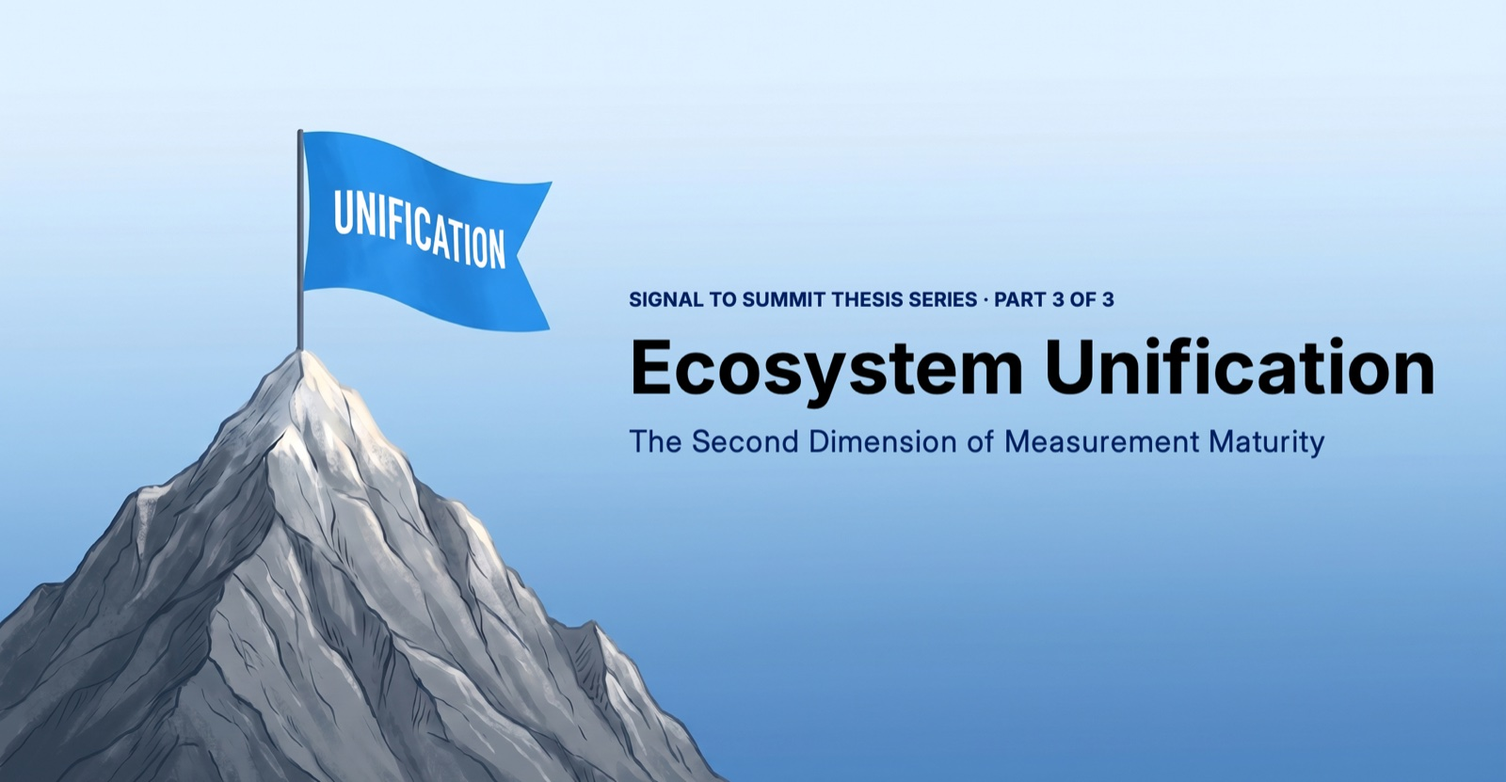
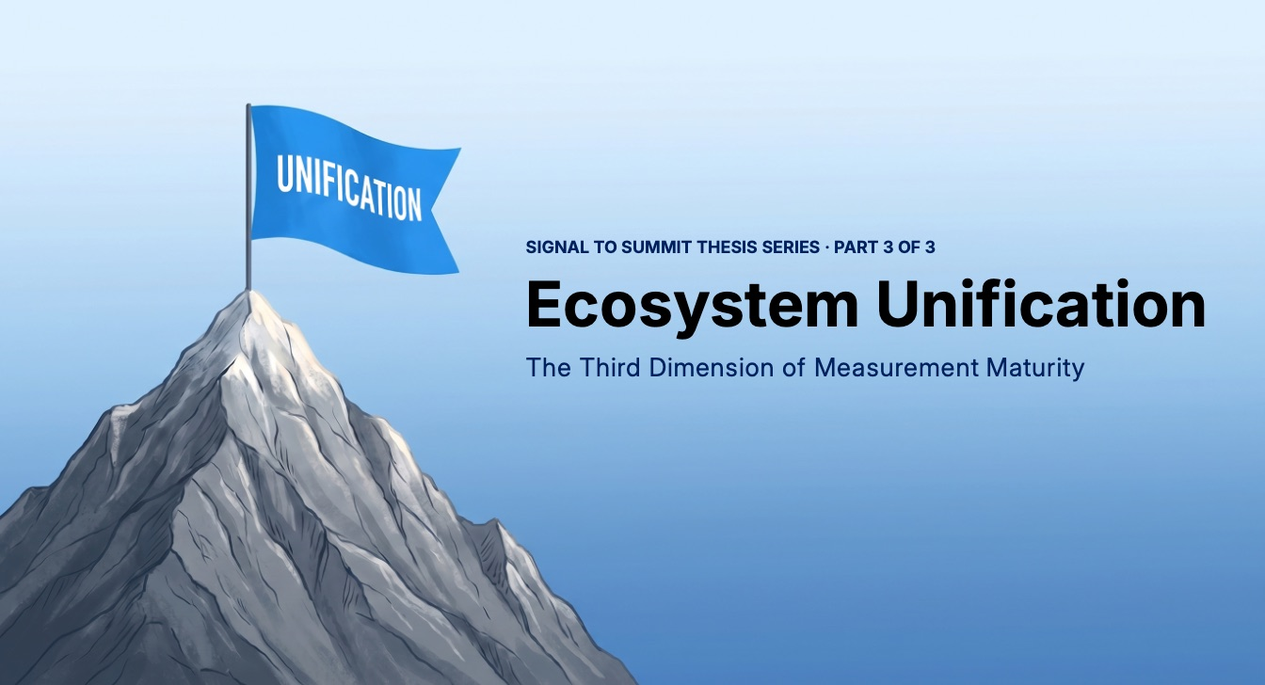
Publish MMF Dimension 3: Ecosystem Unification thesis paper (3 of 3)
Third and final Measurement Maturity thesis paper, built against the established
dimension-page template (hero cover, exec summary, orientation-block TOC, ALL-CAPS
sections, five level illustrations, single ice-blue subscribe box).

- New content: ecosystem-unification-the-third-dimension-of-measurement-maturity.md
- 8 visual assets: cover, stat banner, 5 level illustrations, proof-chain graphic
- Sections: Cost of Fragmentation, Five Levels of Ecosystem Unification,
  The Portfolio Question, The Benefit of Getting Unification Right, The Proof Chain
- Cross-links wired: overview cover now links to live page; Operational Delivery
  What Comes Next now links to the live dimension 3 (removed Coming soon)

Verified: production build clean, dev-server render confirmed via browser, all 8
images load, all 5 TOC anchors resolve, zero console errors.

Changed region(s): [[0.0, 0.1511, 0.5312, 1.0], [0.4062, 0.3324, 0.9688, 0.6044]]

diff --git a/src/content/signals/ecosystem-unification-the-third-dimension-of-measurement-maturity.md b/src/content/signals/ecosystem-unification-the-third-dimension-of-measurement-maturity.md
@@ -1,0 +1,172 @@
+---
+title: "Ecosystem Unification: The Third Dimension of Measurement Maturity"
+description: "Whether your proof and delivery hold together across your full channel portfolio, or only work for the ad products you built first. The third and final dimension in the Signal to Summit Measurement Maturity Framework."
+teaser: "Defined by whether your measurement holds together across the whole portfolio, or only works one channel at a time."
+executiveSummary: "A brand does not buy one corner of your network. They run sponsored products, offsite display, CTV, in-store, and social, and they expect you to tell them what all of it did together. That is where most retail media measurement breaks. This is the third and final dimension in the Signal to Summit Measurement Maturity Framework: whether your proof and delivery hold together across your full channel portfolio, or only work one ad product at a time. Five levels from Isolated Systems to The Customer Journey as Competitive Advantage, scored independently per ad product. The dimensions do not average. The chain breaks at the weakest link."
+pillar: thesis
+publishDate: 2026-06-01T12:00:00
+author: Jaiah Kamara
+videoTitle: "Ecosystem Unification, The Third Dimension of Measurement Maturity, Signal to Summit"
+thumbnail: /images/thesis/mmf/ecosystem-unification-cover.jpg
+draft: false
+---
+
+# Ecosystem Unification: The Third Dimension of Measurement Maturity
+
+*Jaiah Kamara, Founder, Signal to Summit | 7 Years Building Measurement at Best Buy Ads | Industry Analyst and Advisor to Retail Media Platform Providers*
+
+*Part 3 of 3 in the Signal to Summit Measurement Maturity series.*
+
+---
+
+The Signal to Summit Measurement Maturity series introduced three dimensions that determine whether proof reaches the person making the spending decision. Proof capacity was the first: what you can actually demonstrate, and to whom. Operational delivery was the second: whether that proof arrives in the right format, at the right moment, in the hands that decide. This paper covers the third dimension, ecosystem unification.
+
+A brand does not buy one corner of your network. They run sponsored products, offsite display, CTV, in-store, maybe on a social media platform, and they expect you to tell them what all of it did together. That is where most retail media measurement breaks. You can have real proof and fast delivery on the channels you have figured out, and still have no answer when a brand asks how their spend performed across the full journey. Ecosystem unification is the dimension that decides whether your measurement holds together across the whole portfolio, or only works one channel at a time.
+
+If you have not read the series introduction, [Measurement Maturity: A Framework for Retail and Commerce Media](/summit-signals/measurement-maturity-framework-overview), that is the entry point to the full framework.
+
+If you missed the earlier dimensions, start with [Proof Capacity: The First Dimension of Measurement Maturity](/summit-signals/proof-capacity-the-first-dimension-of-measurement-maturity), then [Operational Delivery: The Second Dimension of Measurement Maturity](/summit-signals/operational-delivery-the-second-dimension-of-measurement-maturity).
+
+<div class="orientation-block">
+<ol>
+<li><a href="#the-cost-of-fragmentation"><span class="orient-label">The Cost of Fragmentation</span><span class="orient-context">Three levels of hidden cost: double-counting you cannot see, a measurement ceiling lower than you think, and non-endemic revenue you cannot access</span></a></li>
+<li><a href="#five-levels-of-ecosystem-unification"><span class="orient-label">Five Levels of Ecosystem Unification</span><span class="orient-context">From Isolated Systems to The Customer Journey as Competitive Advantage, scored per ad product</span></a></li>
+<li><a href="#the-portfolio-question"><span class="orient-label">The Portfolio Question</span><span class="orient-context">Which connections are missing, and which missing connections are costing you the most</span></a></li>
+<li><a href="#the-benefit-of-getting-unification-right"><span class="orient-label">The Benefit of Getting Unification Right</span><span class="orient-context">Answer the question every major advertiser is actually asking, and unlock revenue that only exists when brands can connect</span></a></li>
+<li><a href="#the-proof-chain"><span class="orient-label">The Proof Chain</span><span class="orient-context">Three papers, three dimensions, one conclusion: the chain breaks at the weakest link</span></a></li>
+</ol>
+</div>
+
+---
+
+## THE COST OF FRAGMENTATION
+
+Fragmentation is a serious data problem, and anyone who has worked in data knows it is one of the most critical to solve. In retail media it is also the one that quietly caps everything else. You cannot dedupe attribution across overlapping exposures, you cannot connect a customer journey across channels, and you cannot partner with brands who need a unified view, when your data lives in systems that were never built to talk to each other. The cost operates at three levels, each harder to see than the last.
+
+First, you are double-counting and you may not know it. A brand runs sponsored products and onsite display, and both systems report a conversion from the same shopper on the same transaction. Without a connected identity layer telling you that was one journey, you counted it twice. When the brand or agency dedupes on their side, your numbers shrink, and that is worse than reporting lower numbers from the start, because you lost the argument after appearing to win it.
+
+Second, your measurement ceiling is lower than you think. If your loyalty program penetration is 40%, then 60% of transactions are already invisible to deterministic measurement, and that gap widens once you account for ad products running on different identity systems with different match rates. Onsite might match well, but offsite match-back typically runs through a partner at 40 to 60 percent, CTV runs lower than that, and social activations often come back as cohort-level aggregates with no individual match at all. The journey you are trying to prove is structurally invisible for a meaningful share of the shoppers who actually experienced it, and that ceiling does not move until the identity infrastructure underneath it changes.
+
+Third, you are locked out of non-endemic revenue at scale. When a financial services company or an auto brand wants to advertise on your network, they bring budget but no transaction in your system, and your entire measurement architecture is built around matching ad exposure to purchase. No purchase means no proof path. Non-endemic is one of the fastest-growing revenue opportunities in retail media, and a fragmented ecosystem with no alternative measurement path cannot access it at scale.
+
+These costs compound at the portfolio level. Your largest advertisers are the ones buying across the most formats, and they are not asking for individual ad product reports, they are asking what the network did for their business. The more formats a brand buys, the more exposed they are to your fragmentation, which means your biggest revenue relationships carry the most risk.
+
+![Your biggest advertisers aren't asking for individual ad product reports. They're asking what your network did for their business.](/images/thesis/mmf/ecosystem-unification-stat-banner.jpg)
+
+And the urgency is commercial. Holding companies are building normalization infrastructure to evaluate performance across retail media networks consistently, and the networks whose data connects cleanly into those frameworks get considered for the largest allocations. When your data arrives fragmented, deduplicated differently by each ad product, with identity coverage gaps that compress under external scrutiny, you get discounted before the evaluation even begins. Fragmentation is not just an internal measurement problem. It is how you show up in the room where the biggest budget decisions get made.
+
+---
+
+## FIVE LEVELS OF ECOSYSTEM UNIFICATION
+
+![Ecosystem Unification Level 1, Isolated Systems, illustration](/images/thesis/mmf/ecosystem-unification-level-1.jpg)
+
+**Level 1: Isolated Systems.** Each ad product on your network operates as a separate measurement island. Sponsored products, onsite display, and offsite programmatic each report through their own system, and if you have CTV, in-store, social, or paid search, each carries its own reporting interface, identity backbone, and methodology. When a brand asks how their investment performed across your network, the answer is a folder of separate reports, one per ad product, each telling its own story with no connection to the others.
+
+The customer journey that actually happened, the shopper who saw a CTV ad, searched onsite, clicked a sponsored product, and converted, is invisible as a journey. Each system claimed a piece of it and nobody connected the pieces. You have activity data, not a story.
+
+Why: Each ad product was built or integrated independently, often by different teams, using different vendor infrastructure, on different timelines. There was no architectural decision to connect them because the priority at each stage was getting the ad product live and generating revenue, not building measurement infrastructure that would connect it to everything else. The identity systems underlying each product were chosen for that product's needs, not for interoperability: sponsored products run on your loyalty backbone, offsite on a partner's device graph, CTV on a streaming partner's identity system, social on aggregated cohorts. These systems were never designed to speak to each other, and at Level 1, nobody has tried to make them.
+
+![Ecosystem Unification Level 2, Connected Within Formats, Fragmented Across Them, illustration](/images/thesis/mmf/ecosystem-unification-level-2.jpg)
+
+**Level 2: Connected Within Formats, Fragmented Across Them.** You started connecting measurement within some ad product categories. Your onsite formats, sponsored products and onsite display, share a common identity backbone and report through a consistent methodology, so when a brand runs both, you can tell a coherent onsite story. But the moment the conversation expands to offsite, CTV, or in-store, you are back to separate systems with separate logic. The cross-format story breaks at the boundary between onsite and everything else.
+
+You also started building your own data connections to the retail enterprise. Your measurement team has access to POS data for some reporting, and loyalty transaction data feeds into your onsite attribution model. But those connections are partial and manual, built to serve specific reporting needs, not to create a unified data foundation across your full portfolio.
+
+Why: Connecting measurement within a format category is architecturally simpler than connecting across them, because onsite formats share a common first-party data environment where shopper identity, transaction data, and ad exposure data all live close together. Offsite measurement requires matching an external impression back to an in-store or online transaction, which introduces a partner-dependent identity layer with its own match rate and limitations, and CTV and in-store each add another layer on top of that. Each cross-format connection is a different identity problem, and at Level 2, the organization has solved the easiest one but not the harder ones.
+
+![Ecosystem Unification Level 3, A Connected Identity Layer Across Core Formats, illustration](/images/thesis/mmf/ecosystem-unification-level-3.jpg)
+
+**Level 3: A Connected Identity Layer Across Core Formats.** You built or integrated an identity resolution layer that connects your core ad products under a common shopper identity. When a shopper is exposed to a sponsored product and then an onsite display ad and then converts, your system recognizes that as one journey, not three separate attribution events. Cross-format deduplication works for your core portfolio, and the double-counting problem that defined Levels 1 and 2 is largely resolved for the formats you prioritized.
+
+You can answer the cross-format question for those formats. A brand running sponsored, onsite display, and offsite can get a deduplicated view of performance that survives basic agency scrutiny. The portfolio story holds for the formats in the connected layer, but CTV, in-store, social, and non-endemic are still outside it, running on separate identity systems. The connected layer covers the revenue you have today, not the formats you are building toward.
+
+Why: Building a connected identity layer requires choosing an architectural approach and investing in the infrastructure to implement it: first-party loyalty data as the deterministic backbone, an identity resolution provider to extend coverage to non-loyalty shoppers, and clean room infrastructure for the walled garden connections that cannot be solved with a direct integration. These choices were made for the core ad products because that is where the measurement pressure was highest. CTV identity runs through the streaming partner's system and requires a different integration approach, in-store attribution requires connecting physical presence signals to the loyalty backbone, and social platforms operate closed identity environments where clean room collaboration is the only path. Each extension of the connected layer requires a separate architectural decision and a separate investment.
+
+![Ecosystem Unification Level 4, Full Portfolio Connectivity with Enterprise Data Integration, illustration](/images/thesis/mmf/ecosystem-unification-level-4.jpg)
+
+**Level 4: Full Portfolio Connectivity with Enterprise Data Integration.** Your identity layer covers your full ad product portfolio, from sponsored and display to offsite, CTV, paid search, social, and in-store. The customer journey is visible end to end for the shopper segments your identity infrastructure can reach, and cross-format deduplication works across formats, not just within your core. When a brand asks what the network did for their business, you have a connected answer that spans everything they bought.
+
+And the measurement is now connected to the broader retail enterprise. POS data, loyalty transaction data, inventory data, and category management data feed into your measurement infrastructure through real data pipelines, not manual exports. Browse behavior and conversion paths from your e-commerce platform connect ad exposure to the full purchase journey, from exposure through consideration to conversion, not just the last-click event. That enterprise data connection changes the proof you can produce: you are not just measuring ad-to-purchase, you are measuring ad-to-business-outcome across the full retail data ecosystem.
+
+Non-endemic advertisers have a proof path. Brand lift measurement, audience qualification scoring, foot traffic attribution, and third-party conversion tracking give advertisers without a purchase in your system something credible to evaluate, and the methodology is productized and transparent rather than constructed ad hoc for each request.
+
+Cross-brand partnerships have a proof path for the first time. The same clean room infrastructure that connects walled garden platforms also lets two first-party data environments collaborate without either side exposing raw data. A brand can co-fund an activation with a complementary brand, or partner directly with the retailer on a shared audience, and both sides receive measurement on the outcome. At Level 4 this works, but it is still a deliberate, configured engagement. Each partnership requires your team to stand up the clean room connection, align on the measurement question, and produce the result. The capability is real, but the effort per partnership is high.
+
+Why: Full portfolio connectivity at Level 4 required solving the identity problem for each format independently and then connecting those solutions into a coherent orchestration layer, because no single identity technology covers 100% of shopper exposure. First-party loyalty data is the deterministic backbone for known shoppers, an identity resolution provider extends probabilistic coverage to unknown shoppers on the open internet, open internet identity frameworks handle CTV and programmatic, and clean room technologies enable collaboration with walled garden platforms where no external identifier can penetrate. The orchestration layer coordinates across all of these, recognizing that the same shopper may appear in multiple identity systems and that the goal is journey visibility, not perfect one-to-one matching.
+
+Enterprise data integration at Level 4 required building real data pipelines between the retail media measurement infrastructure and the retail enterprise systems that have historically operated separately. POS data was not built for advertising measurement, and loyalty data was not built for campaign attribution. Connecting them required both technical infrastructure and organizational alignment between the retail media function and the broader retail technology and data teams.
+
+![Ecosystem Unification Level 5, The Customer Journey as Competitive Advantage, illustration](/images/thesis/mmf/ecosystem-unification-level-5.jpg)
+
+**Level 5: The Customer Journey as Competitive Advantage.** Your ecosystem is unified in the way that matters to the brands spending the most money with you. Not just connected across ad products, but connected across the full retail enterprise data environment and designed to interoperate with the external frameworks your audiences use to evaluate performance.
+
+A brand can see the complete journey their advertising drove, from first exposure across any format on your network through browse behavior, consideration signals, and conversion, for every shopper segment your identity infrastructure reaches. The measurement is not just internally consistent, it is externally portable. It enters a holding company's cross-channel model without requiring translation, and it survives the normalization layer an agency applies when comparing your performance against other media investments.
+
+For non-endemic advertisers, the proof paths are as mature as the transaction-based measurement your core advertisers rely on. Brand lift, audience qualification, and alternative attribution methodologies are productized, documented, and transparent. A financial services brand or auto manufacturer can evaluate your network on the same rigorous standard as a CPG brand, and the revenue opportunity non-endemic represents is fully accessible because the measurement infrastructure supports it.
+
+Cross-brand partnership is productized at the same standard. The clean room collaboration that required deliberate configuration at Level 4 is now a repeatable capability, not a custom engineering project per partner. A brand can run a co-funded activation with another brand on your network, and both receive deduplicated, clean-room-mediated proof without your team rebuilding the connection each time. The partnership infrastructure is documented and self-serve enough that sophisticated advertisers and their agencies can engage it directly. This is the unified view that multi-brand advertisers and holding companies expect from the networks operating at the top of the market.
+
+Why: Level 5 unification is the result of treating identity orchestration and enterprise data connectivity as products, not infrastructure projects. The architecture was designed from the beginning for external consumption, not just internal reporting. The identity orchestration layer is documented, its coverage rates are published, and its limitations are transparent, so an agency can evaluate the methodology rather than taking your word for it. The enterprise data connections were built with API access and clean room interoperability in mind, so external partners can engage with the data in their own environments rather than waiting for your team to produce a custom export.
+
+Amazon is the clearest calibration point for what Level 5 looks like in practice. The combination of first-party purchase data at scale, closed-loop measurement across onsite and offsite formats, DSP infrastructure connecting retail and brand advertising, and streaming and entertainment data creating additional identity signals produces a unified measurement environment that most networks are not close to replicating. The standard is not Amazon's scale. The standard is the architectural principle: proof capacity, delivery infrastructure, and ecosystem connectivity designed as one integrated system rather than assembled from parts.
+
+---
+
+## THE PORTFOLIO QUESTION
+
+The portfolio question for ecosystem unification is different from the first two dimensions. For proof capacity and operational delivery, the question is which ad product is your weakest link. For ecosystem unification, the question is which connections are missing, and which missing connections are costing you the most.
+
+The connections that matter most are not always the ones that are hardest to build. Your biggest multi-format advertisers are running across your highest-revenue ad products, so if the connection between those specific ad products is broken, the fragmentation cost is highest exactly where your revenue concentration is highest. That is the first place to look.
+
+The second place to look is where your growth plan points. If your next two years depend on scaling CTV and non-endemic, and neither has a connection to your identity layer or enterprise data, then your growth plan and your unification maturity are pointing in opposite directions. You are counting on revenue from the formats least equipped to prove their value.
+
+And the third place to look is what your most sophisticated partners are asking for that you cannot yet give them. A holding company asks for clean room access you do not have. A brand asks for a deduplicated cross-format view your system cannot produce, or wants to run a co-funded activation with a partner brand and needs both sides measured through a clean room you have not built. An agency asks for API access to your identity-resolved data and the documentation does not exist. Those requests are telling you exactly where your unification gaps sit in the hierarchy of what the market requires.
+
+---
+
+## THE BENEFIT OF GETTING UNIFICATION RIGHT
+
+Getting ecosystem unification right has four consequences that the first two dimensions cannot produce on their own.
+
+First, you can answer the question every major advertiser is actually asking. Not "how did sponsored products perform." Not "what was offsite ROAS." What did your network do for my business. When your ecosystem is unified, that question has a credible, connected answer that spans every format the brand activated. The portfolio story is coherent because the data underneath it is coherent, and that coherence is what earns the budget conversation that moves beyond individual ad product negotiations into enterprise-level partnerships.
+
+Second, your network becomes interoperable with the infrastructure your most valuable audiences are building around you. Holding companies are building normalization layers to evaluate retail media networks consistently. The networks whose measurement connects cleanly into those layers get included in the models that move the largest allocations, and the networks that require manual work to normalize get discounted or excluded. Unification at Level 4 and Level 5 is not just a measurement quality improvement. It is an entry requirement for the budget tier that changes the scale of your business.
+
+Third, your enterprise data becomes a competitive differentiator, not just an internal asset. When your measurement infrastructure is connected to POS data, loyalty transaction data, inventory signals, and browse behavior, the proof you can produce is grounded in the full retail data environment, not just the advertising data layer. That depth of proof is structurally unavailable to networks that have not built the enterprise data connections. It is the clearest version of the measurement advantage that a retailer with first-party data should have but most do not yet fully realize.
+
+Fourth, you unlock revenue that only exists when brands can collaborate. Cross-brand partnership is a category of spend a fragmented network cannot access at all, because it depends on connecting two separate first-party data environments through a clean room without either side exposing raw data. When that infrastructure is in place, a brand can co-fund an activation with a complementary brand, or partner directly with you on a shared audience, and both sides get measurement on the outcome. That capability opens co-funded budgets, joint activations, and multi-brand programs that never appear on a network that cannot connect its own systems, let alone two companies' systems to each other. It is not a better version of revenue you already have. It is revenue that does not exist below this level of unification.
+
+---
+
+## THE PROOF CHAIN
+
+Three papers. Three dimensions. One conclusion.
+
+![The proof chain: Proof Capacity is the what, Operational Delivery is the when, Ecosystem Unification is the how. The chain breaks at the weakest link.](/images/thesis/mmf/ecosystem-unification-proof-chain.jpg)
+
+Proof capacity determines what you can demonstrate and to whom. Operational delivery determines whether that proof reaches the person making the spending decision in the format and at the speed their decision requires. Ecosystem unification determines whether both can function across your full channel portfolio or only for the ad products you built first.
+
+These dimensions do not average. The chain breaks at the weakest link. A network at Level 4 on proof capacity and Level 4 on operational delivery but Level 1 on ecosystem unification does not have a strong measurement story. It has a strong measurement story for one ad product at a time, and a fragmented story the moment a brand asks about the portfolio.
+
+That is why this framework exists as three separate papers rather than one. Each dimension requires its own honest assessment, per ad product, scored independently. The gaps that are easiest to see, slow delivery, borrowed proof, are not always the gaps doing the most damage. The gap that is hardest to see, disconnected systems that look fine individually and break under cross-format scrutiny, is often the one sitting underneath your most important revenue relationships.
+
+Find your weakest link. That is where the highest-leverage investment lives. Not the dimension where you are strongest. The one where the chain is closest to breaking.
+
+---
+
+## Why I Do This Work
+
+I'm Jaiah Kamara, founder of Signal to Summit Consulting.
+
+I spent fifteen years in retail, seven of those years in central leadership roles building the reporting and measurement infrastructure at a top-ten retail media network. I built systems that drove advertiser confidence: reliable reporting infrastructure, decision frameworks that empowered action, operating models that ensured data quality, and cross-functional ways of working that aligned sales, strategy, and measurement around shared truth.
+
+I now work as an industry analyst and advisor helping retail and commerce media platform providers and operators move this industry forward. I commission structured research that fills the gaps published frameworks miss, and I publish what I find so the industry can move together.
+
+## The Signal to Summit Difference
+
+Most of my work in retail media was not about strategy decks. It was about building systems that drove advertiser confidence and organizational readiness. The Signal to Summit Measurement Maturity Framework is one of those systems, made portable for the industry. The ecosystem unification dimension you just walked through completes it.
+
+If you are a retail or commerce media operator, platform provider, or holding company partner, and any of what you read above lands on something you are navigating right now, the path to talking is short.
+
+**[Let's talk.](/lets-talk)**

diff --git a/src/content/signals/operational-delivery-the-second-dimension-of-measurement-maturity.md b/src/content/signals/operational-delivery-the-second-dimension-of-measurement-maturity.md
@@ -141,7 +141,7 @@ Your sponsored products might have strong proof and fast delivery. Your offsite 
 
 Proof and delivery that function within each ad product but cannot connect across them leave your biggest advertisers with a fragmented picture of your network's value. The brands spending the most across your portfolio are the most exposed to that fragmentation. And the cost is not just a reporting inconvenience. It is a structural limit on the revenue story you can tell.
 
-That is what comes next: Ecosystem Unification: The Third Dimension of Measurement Maturity. How connected are the systems producing your proof, and what does it cost when the answer is not connected enough? Coming soon.
+That is what comes next: [Ecosystem Unification: The Third Dimension of Measurement Maturity](/summit-signals/ecosystem-unification-the-third-dimension-of-measurement-maturity). How connected are the systems producing your proof, and what does it cost when the answer is not connected enough?
 
 If you have not read the prior installments, the [series overview](/summit-signals/measurement-maturity-framework-overview) and [Proof Capacity](/summit-signals/proof-capacity-the-first-dimension-of-measurement-maturity) are the entry points.
 

diff --git a/src/content/signals/measurement-maturity-framework-overview.md b/src/content/signals/measurement-maturity-framework-overview.md
@@ -115,9 +115,9 @@ Each dimension has its own thesis paper that breaks down the cost in detail, wal
 
 *Click above to read the full Operational Delivery thesis paper.*
 
-![Ecosystem Unification thesis paper cover art](/images/thesis/mmf/ecosystem-unification-cover.jpg)
+[![Ecosystem Unification thesis paper cover art](/images/thesis/mmf/ecosystem-unification-cover.jpg)](/summit-signals/ecosystem-unification-the-third-dimension-of-measurement-maturity)
 
-*Ecosystem Unification thesis paper (coming soon).*
+*Click above to read the full Ecosystem Unification thesis paper.*
 
 ---
 
